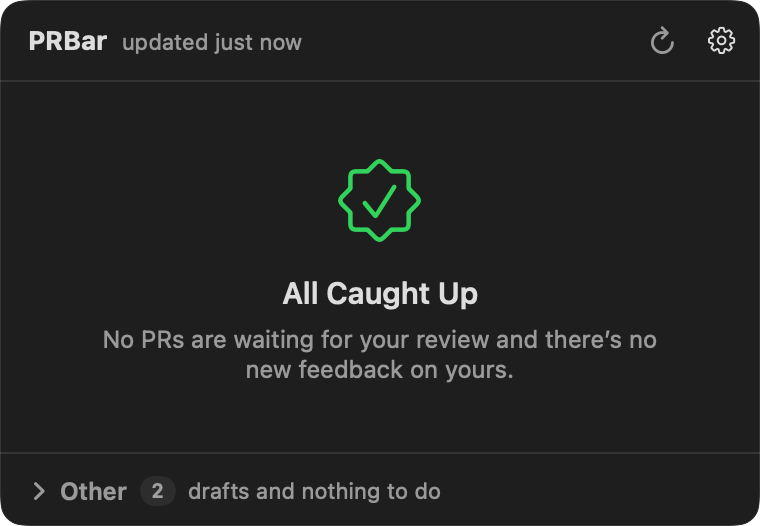
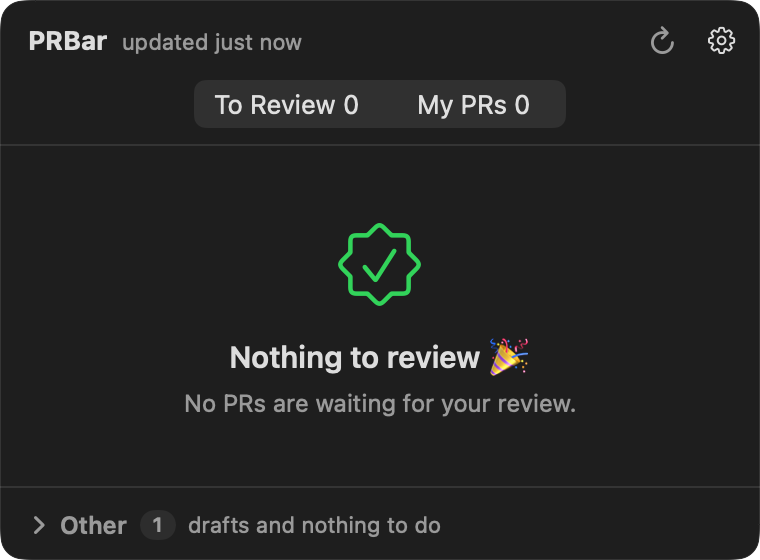
Capture the popover's two tabs and their empty states

diff --git a/Sources/PRBar/Snapshots/SnapshotMode.swift b/Sources/PRBar/Snapshots/SnapshotMode.swift
@@ -8,7 +8,8 @@ import SwiftUI
 /// Nothing real starts: each screen gets its own `AppModel` built with `startsServices: false` and in-memory
 /// fakes (`SnapshotFakes`), so there's no refresh, no `gh`/`git`/`claude`, no Slack, no notifications and no
 /// worktree cleanup. The stores that need files (config, state, history) use a scratch folder inside `<dir>`
-/// that is deleted before exiting, and the app log is turned off: nothing is written outside `<dir>`.
+/// that is deleted before exiting, the popover's tab is kept in memory (not in UserDefaults) and the app log is turned
+/// off: nothing is written outside `<dir>`.
 @MainActor
 enum SnapshotMode {
     static func run(_ options: SnapshotOptions) -> Never {
@@ -79,10 +80,15 @@ private final class SnapshotSession {
             return false
         }
         try await popover("popover", model: main)
+        main.popoverTab.selected = .mine
+        try await popover("popover-mine", model: main)
+        main.popoverTab.selected = .toReview
         main.reviews.cancelAll()
 
         let empty = try makeModel("empty", snapshot: fixtures.caughtUpSnapshot)
         try await popover("popover-empty", model: empty)
+        empty.popoverTab.selected = .mine
+        try await popover("popover-empty-mine", model: empty)
 
         try await reviewWindows(model: main)
         try await respondWindows(model: main)
@@ -128,7 +134,8 @@ private final class SnapshotSession {
             instructionsStore: InstructionsStore(fileURL: dir.appendingPathComponent("instructions.json")),
             instructionsChatBackend: SnapshotInstructionsChatBackend(),
             discardStats: DiscardStatsStore(fileURL: dir.appendingPathComponent("discard-stats.json")),
-            mergeHistory: MergeHistory(historyDir: historyDir)
+            mergeHistory: MergeHistory(historyDir: historyDir),
+            popoverDefaults: nil   // the popover's tab only in memory: the user's UserDefaults aren't touched
         )
         let model = AppModel(services: services, startsServices: false)
         model.applySnapshotState(tools: SnapshotFixtures.tools, ghAccounts: SnapshotFixtures.ghAccounts, launchAtLogin: true)

diff --git a/Sources/PRBar/AppModel.swift b/Sources/PRBar/AppModel.swift
@@ -47,9 +47,9 @@ struct AppModelServices {
     var discardStats: DiscardStatsStore? = nil
     /// `nil`: `history/merge/` in Application Support (spec G.4).
     var mergeHistory: MergeHistory? = nil
-    /// Dónde se guarda la pestaña del popover (spec H.1). `nil`: `UserDefaults.standard`. El modo de capturas usa uno
-    /// propio para no tocar el del usuario.
-    var popoverDefaults: UserDefaults? = nil
+    /// Dónde se guarda la pestaña del popover (spec H.1). `nil`: solo en memoria; lo usa el modo de capturas para no
+    /// tocar el del usuario ni escribir fuera de su carpeta.
+    var popoverDefaults: UserDefaults? = .standard
 
     static func live(runner: SystemProcessRunner) -> AppModelServices {
         let accounts = AccountProvider(runner: runner, ghPath: nil)
@@ -239,7 +239,7 @@ final class AppModel: ObservableObject {
         self.chatBackendOverride = services.chatBackend
         self.instructionsChatBackendOverride = services.instructionsChatBackend
         self.updateTransport = services.updateTransport
-        self.popoverTab = PopoverTabState(defaults: services.popoverDefaults ?? .standard)
+        self.popoverTab = PopoverTabState(defaults: services.popoverDefaults)
         self.prStore = PRStore(
             builder: SnapshotBuilder(api: services.api, tokens: services.accounts),
             configStore: configStore,

diff --git a/Sources/PRBarCore/PopoverTabs.swift b/Sources/PRBarCore/PopoverTabs.swift
@@ -56,7 +56,7 @@ public enum PopoverSection: String, Codable, CaseIterable, Sendable, Identifiabl
     public var subtitle: String? {
         switch self {
         case .otherToReview: "drafts and nothing to do"
-        case .waitingForReview: "no new feedback, not ready to merge"
+        case .waitingForReview: "waiting on reviewers"
         default: nil
         }
     }
@@ -126,15 +126,16 @@ public enum PopoverTabs {
 public final class PopoverTabState: ObservableObject {
     public nonisolated static let defaultsKey = "popoverTab"
 
-    private let defaults: UserDefaults
+    private let defaults: UserDefaults?
 
     @Published public var selected: PopoverTab {
-        didSet { defaults.set(selected.rawValue, forKey: Self.defaultsKey) }
+        didSet { defaults?.set(selected.rawValue, forKey: Self.defaultsKey) }
     }
 
-    public init(defaults: UserDefaults = .standard) {
+    /// `defaults == nil`: se recuerda solo en memoria (el modo de capturas, que no escribe fuera de su carpeta).
+    public init(defaults: UserDefaults? = .standard) {
         self.defaults = defaults
-        selected = defaults.string(forKey: Self.defaultsKey).flatMap(PopoverTab.init(rawValue:)) ?? .toReview
+        selected = defaults?.string(forKey: Self.defaultsKey).flatMap(PopoverTab.init(rawValue:)) ?? .toReview
     }
 }
 

diff --git a/Sources/PRBarTests/PopoverTabsTests.swift b/Sources/PRBarTests/PopoverTabsTests.swift
@@ -82,5 +82,14 @@ enum PopoverTabsTests {
                 try expectEqual(PopoverTabState(defaults: defaults).selected, .toReview)
             }
         },
+        TestCase("popover tabs: sin UserDefaults la pestaña se recuerda solo en memoria") {
+            try await MainActor.run {
+                let state = PopoverTabState(defaults: nil)
+                try expectEqual(state.selected, .toReview)
+                state.selected = .mine
+                try expectEqual(state.selected, .mine)
+                try expectEqual(PopoverTabState(defaults: nil).selected, .toReview)
+            }
+        },
     ]
 }

diff --git a/docs/screenshots/README.md b/docs/screenshots/README.md
@@ -20,8 +20,10 @@ Every screen comes in `-light` and `-dark`, at 2x:
 | File | What it shows |
 | --- | --- |
 | `menubar-icon` | The menu bar icon with a badge of 5, on a menu-bar-like strip |
-| `popover` | The popover: To Review (one idle, one "Reviewing…"), Updated Since My Review (ready, 4 comments), My PRs with Feedback (Changes requested, Respond), Ready to Merge (one ready, one blocked), Other collapsed |
-| `popover-empty` | The "All Caught Up" state |
+| `popover` | The popover's To Review tab (selected; My PRs shows "3 •"): To Review (one idle, one "Reviewing…"), Updated Since My Review (ready, 4 comments), Other collapsed |
+| `popover-mine` | The My PRs tab: My PRs with Feedback (Changes requested, Respond), Ready to Merge (one ready, one blocked) and Waiting for Review (collapsed) |
+| `popover-empty` | The To Review tab with nothing to review ("Nothing to review 🎉"), Other collapsed |
+| `popover-empty-mine` | The My PRs tab with nothing to do ("No PRs of yours need anything"), Waiting for Review collapsed |
 | `review-window` | The Review window: Claude's summary, 3 kept findings (one expanded for editing), 2 discarded with reasons, a general comment, comments posted in Spanish |
 | `review-published` | The Review window after posting, with a rule suggestion from the findings you usually discard |
 | `review-chat` | The Review window with the chat open: a question that narrowed #2 and a finding Claude added (#6) |
